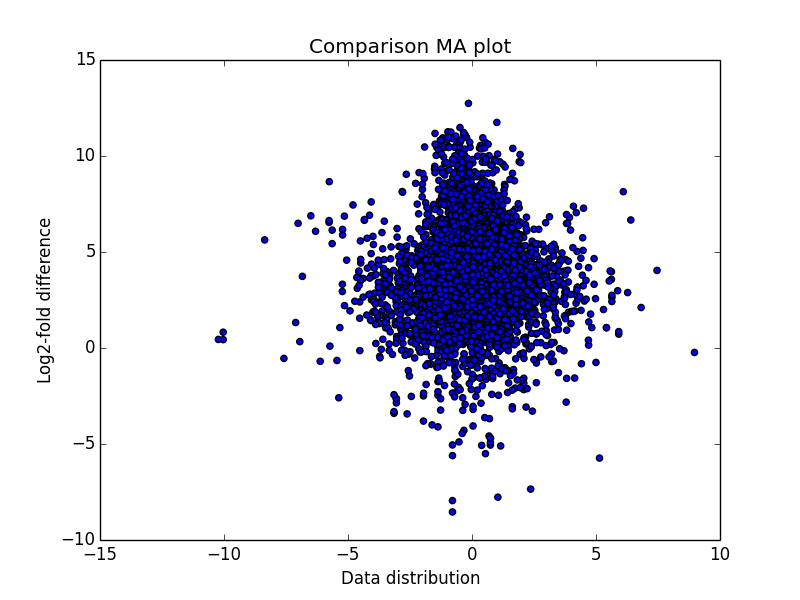
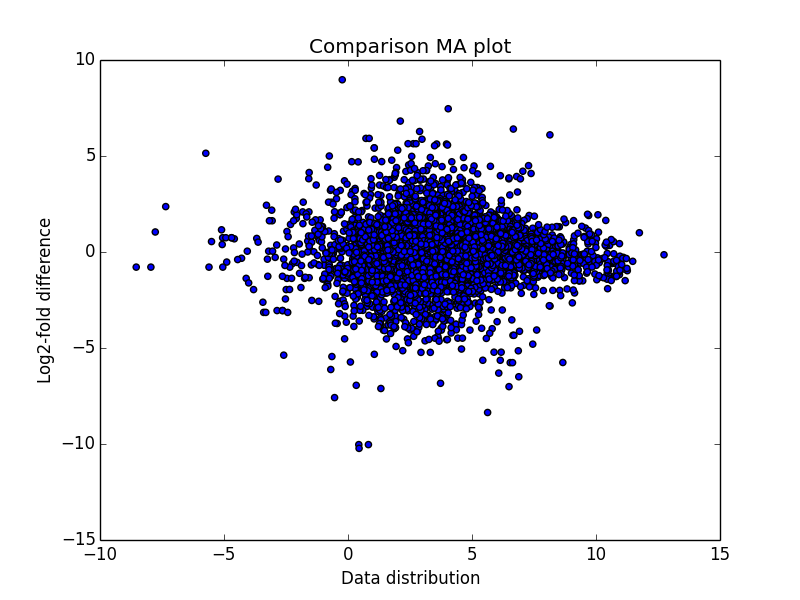
Problem 4 answers

diff --git a/day3/lunchassignment4.py b/day3/lunchassignment4.py
@@ -15,7 +15,7 @@ M = np.log2(R/G)
 A = 0.5 * np.log2(R * G)
 
 plt.figure()
-plt.scatter(M, A)
+plt.scatter(A, M)
 plt.xlabel("Data distribution")
 plt.ylabel("Log2-fold difference")
 plt.title("Comparison MA plot")
